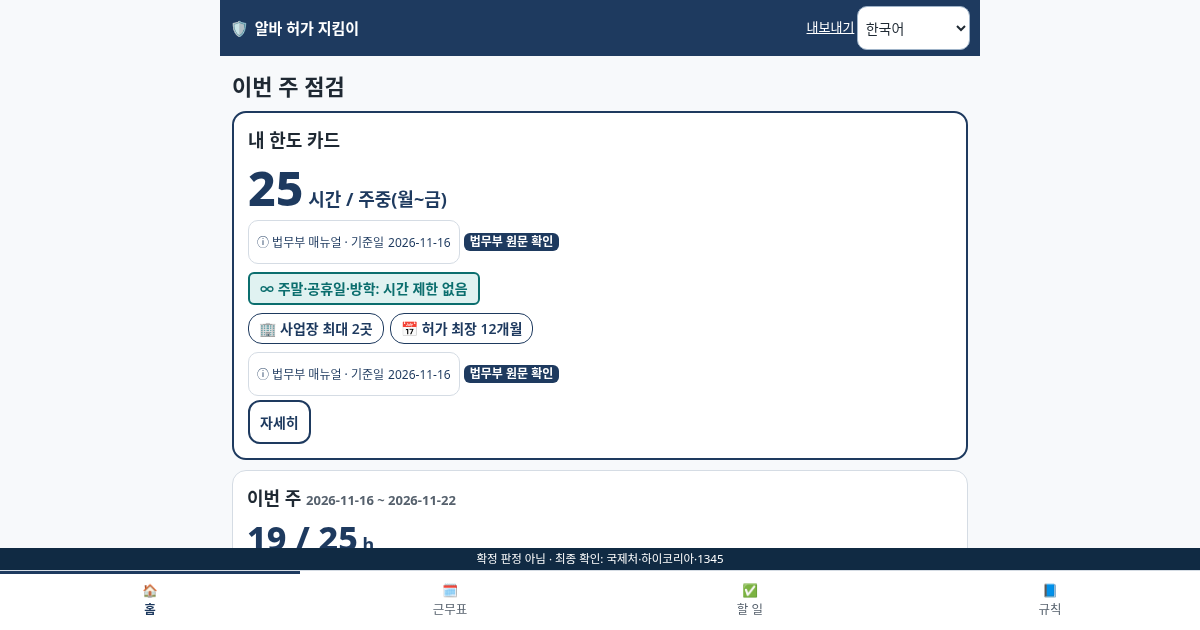
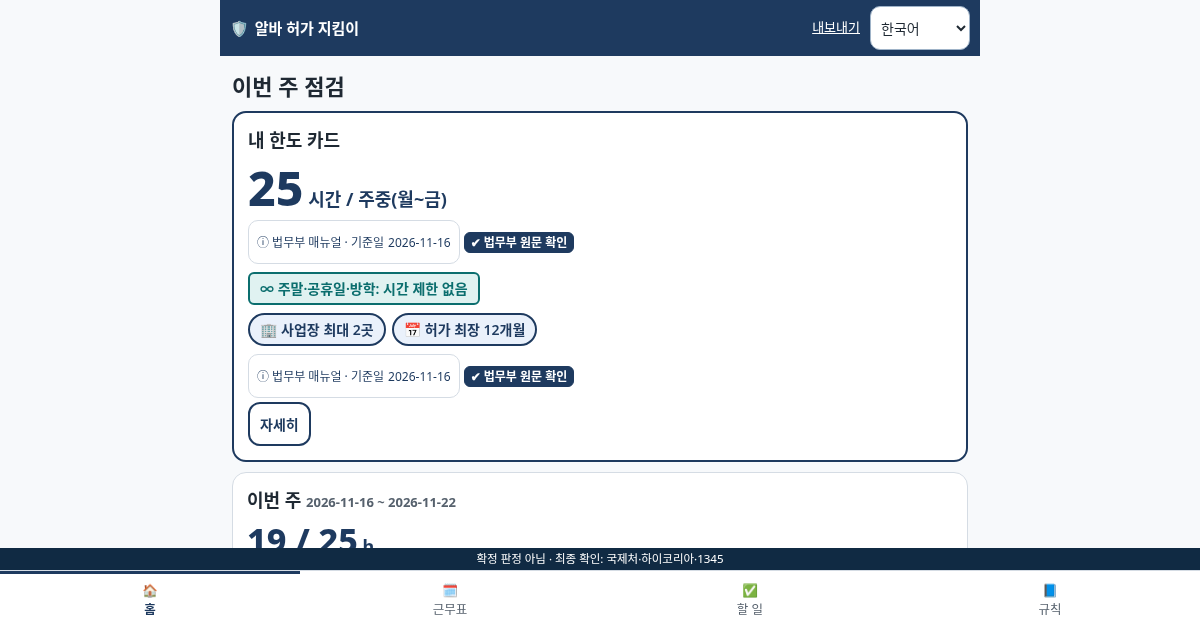
Add 2026-11-16 알바 허가 지킴이

diff --git a/2026-11-16-intl-student-work-permit-guard/app.js b/2026-11-16-intl-student-work-permit-guard/app.js
@@ -31,11 +31,12 @@
     return new Promise(res => { const d = $('#dlg'); $('#dlg-t').textContent = title; $('#dlg-b').innerHTML = bodyHtml; $('#dlg-ok').textContent = okText || t('ok'); const no = $('#dlg-no'); no.textContent = noText || t('cancel'); no.hidden = noText === false;
       d.returnValue = ''; d.onclose = () => res(d.returnValue === 'ok'); d.showModal(); });
   }
-  const STATUS = { verified: 'vb_verified', gov: 'vb_gov', school: 'vb_school', check: 'vb_check', secondary: 'vb_check', press: 'vb_check' };
-  function vb(status) { return `<span class="vb vb-${esc(status)}">${esc(t(STATUS[status] || 'vb_check'))}</span>`; }
+  const STATUS = { verified: ['verified', '✔', 'vb_verified'], gov: ['gov', '🏛', 'vb_gov'], school: ['school', '🏫', 'vb_school'], check: ['check', '?', 'vb_check'], secondary: ['secondary', '📰', 'vb_secondary'], press: ['secondary', '📰', 'vb_secondary'] };
+  function vb(status) { const [c, i, k] = STATUS[status] || STATUS.check; return `<span class="vb vb-${c}"><span aria-hidden="true">${i}</span>${esc(t(k))}</span>`; }
+  function legendSrc() { return `<div class="legend" aria-label="${esc(t('legend_src'))}">${['verified', 'gov', 'school', 'secondary', 'check'].map(vb).join('')}</div>`; }
   function src(key, status) {
     const s = S.D.sources.sources[key]; if (!s) return '';
-    const st = status || (s.kind === 'primary' ? 'verified' : s.kind === 'gov' ? 'gov' : s.kind === 'school' ? 'school' : 'check');
+    const st = status || (s.kind === 'primary' ? 'verified' : s.kind === 'gov' ? 'gov' : s.kind === 'school' ? 'school' : (s.kind === 'secondary' || s.kind === 'press') ? 'secondary' : 'check');
     return `<span class="srcline"><button type="button" class="src" data-src="${esc(key)}">ⓘ ${esc(s.short || s.org)} · ${esc(t('asof'))} <span class="num">${esc(shortAsOf(s.asOf))}</span><span class="sr-only"> — ${esc(t('src_open'))}: ${esc(s.org)}, ${esc(s.asOf)}</span></button>${vb(st)}</span>`;
   }
   function shortAsOf(a) { const m = /\d{4}-\d{2}(-\d{2})?/.exec(a || ''); return m ? m[0] : '확인 필요'; }
@@ -47,7 +48,7 @@
   function sig(signal) { const [c, i, k] = SIGI[signal] || SIGI.unknown; return `<span class="sig ${c}"><span aria-hidden="true">${i}</span>${esc(t(k))}</span>`; }
   const SEVI = { stop: ['s-stop', '⛔'], warn: ['s-warn', '⚠'], check: ['s-chk', '?'], info: ['s-info', 'ℹ'] };
   function legendStatus() {
-    return `<div class="legend" aria-label="${esc(t('legend'))}"><span class="lg s-ok">✓ ${esc(t('lg_ok'))}</span><span class="lg s-warn">⚠ ${esc(t('lg_warn'))}</span><span class="lg s-stop">⛔ ${esc(t('lg_stop'))}</span><span class="lg s-rst">🚫 ${esc(t('lg_rst'))}</span><span class="lg s-chk">? ${esc(t('lg_chk'))}</span><span class="lg s-unl">∞ ${esc(t('lg_unl'))}</span></div>`;
+    return `<div class="legend" aria-label="${esc(t('legend'))}"><span class="lg s-ok">✓ ${esc(t('lg_ok'))}</span><span class="lg s-warn">⚠ ${esc(t('lg_warn'))}</span><span class="lg s-stop">⛔ ${esc(t('lg_stop'))}</span><span class="lg s-rst">🚫 ${esc(t('lg_rst'))}</span><span class="lg s-chk">? ${esc(t('lg_chk'))}</span><span class="lg s-unl">∞ ${esc(t('lg_unl'))}</span><span class="lg s-info">ℹ ${esc(t('lg_info'))}</span></div>`;
   }
   function legendDays() { return `<div class="legend"><span class="lg day">${esc(t('dt_weekday'))}</span><span class="lg day d-weekend">${esc(t('dt_weekend'))}</span><span class="lg day d-holiday">🎌 ${esc(t('dt_holiday'))}</span><span class="lg day d-vacation">🏖 ${esc(t('dt_vacation'))}</span></div>`; }
   function setTitle(k) { document.title = t('title_' + k) + ' — ' + t('app'); }
@@ -73,19 +74,28 @@
     $('#lang').value = S.lang; $('#lang').onchange = e => setLang(e.target.value);
     document.addEventListener('click', e => { const b = e.target.closest('[data-src]'); if (b) { e.preventDefault(); showSrc(b.dataset.src); } });
     window.addEventListener('hashchange', route);
-    chrome(); route(); S.ready = true;
+    chrome(); route(); fitFixed();
+    if (window.ResizeObserver) { const ro = new ResizeObserver(fitFixed); ro.observe($('#final')); ro.observe($('.tabs')); ro.observe($('.top')); }
+    window.addEventListener('resize', fitFixed); S.ready = true;
     if ('serviceWorker' in navigator && location.protocol !== 'file:') navigator.serviceWorker.register('sw.js').catch(() => {});
   }
-  async function setLang(l) { if (!LANGS.includes(l)) return; await loadLang(l); S.lang = l; S.st.lang = l; save(); $('#lang').value = l; chrome(); route(); }
+  async function setLang(l) { if (!LANGS.includes(l)) return; await loadLang(l); S.lang = l; S.st.lang = l; save(); $('#lang').value = l; chrome(); route(); fitFixed(); }
   function chrome() {
     document.documentElement.lang = HTMLLANG[S.lang];
     $$('.tabs .tl').forEach(e => e.textContent = t(e.dataset.k));
     $('#tl-export').textContent = t('tab_export');
-    $('.bname').textContent = t('app'); $('.brand').setAttribute('aria-label', t('app') + ' — ' + t('tab_home'));
+    $('.bname').textContent = t('app_short'); $('.brand').setAttribute('aria-label', t('app') + ' — ' + t('tab_home'));
     $('#foot-disc').textContent = t('foot_disc'); $('#foot-priv').textContent = t('foot_priv');
-    const mt = $('#mt'); mt.hidden = !MT[S.lang]; mt.innerHTML = MT[S.lang] ? `⚙ ${esc(t('mt_banner'))} <span lang="ko">(기계 번역 · 원어민 검수 필요)</span>` : '';
+    const mt = $('#mt'); mt.hidden = !MT[S.lang]; const cmp = !!S.st.mtCompact; mt.classList.toggle('compact', cmp);
+    mt.innerHTML = MT[S.lang] ? `<span class="mtx">⚙ ${cmp ? esc(t('mt_short')) : esc(t('mt_banner')) + ' <span lang="ko">(기계 번역 · 원어민 검수 필요)</span>'}</span><button type="button" class="mtb" id="mtb" aria-expanded="${!cmp}">${esc(t(cmp ? 'mt_more' : 'mt_less'))}</button>` : '';
+    const mb = $('#mtb'); if (mb) mb.onclick = () => { S.st.mtCompact = !S.st.mtCompact; save(); chrome(); fitFixed(); };
     $('#final-tr').textContent = S.lang === 'ko' ? '' : t('final'); $('#final-tr').hidden = S.lang === 'ko';
     $('.tabs').setAttribute('aria-label', t('nav_main'));
+  }
+  function fitFixed() {
+    const f = $('#final'), top = $('.top'); if (!f) return;
+    const b = Math.max(0, Math.ceil(innerHeight - f.getBoundingClientRect().top)); const h = top ? Math.ceil(top.getBoundingClientRect().height) : 0;
+    document.documentElement.style.setProperty('--fixed-b', b + 'px'); document.documentElement.style.setProperty('--fixed-t', (h + 8) + 'px');
   }
   function applySchool(id) {
     const sc = S.D.schools.schools.find(s => s.id === id); if (!sc) return;
@@ -223,7 +233,7 @@
   }
   function limitView() {
     const L = limit();
-    page('limit', `<h1>${esc(t('my_limit'))}</h1><section class="card limit" id="limitcard">${limitBlock(L)}</section>
+    page('limit', `<h1>${esc(t('my_limit'))}</h1><section class="card limit" id="limitcard">${limitBlock(L)}</section><details class="card"><summary class="btn ghost sm">${esc(t('legend_src'))}</summary>${legendSrc()}${legendStatus()}</details>
       <div class="stack"><a class="btn block" href="#/work" id="to-work">${esc(t('to_work'))}</a><a class="btn ghost block" href="#/q/1">${esc(t('redo'))}</a></div>
       <section class="card"><h2>${esc(t('vac_h'))}</h2><p>${esc(L.unlimited ? t('vac_unl') : t('vac_lim'))}</p></section>`);
   }
@@ -232,9 +242,12 @@
   function weeksNow(n) { const L = limit(); return { L, weeks: E.aggregate(S.st, L, S.D.holidays, E.weekKey(today()), n || 5) }; }
   function meter(w) { if (w.capMins == null) return ''; const pct = Math.min(100, w.capMins ? w.countedMins / w.capMins * 100 : 0); return `<div class="meter" role="img" aria-label="${esc(t('meter_aria', { used: H(w.countedMins), cap: H(w.capMins) }))}"><i class="${w.status}" style="width:${pct}%"></i></div>`; }
   function stChip(s) { const m = { ok: ['s-ok', '✓', 'wk_ok'], warn: ['s-warn', '⚠', 'wk_near'], stop: ['s-stop', '⛔', 'wk_over'] }[s]; return `<span class="chip ${m[0]}">${m[1]} ${esc(t(m[2]))}</span>`; }
+  function wParams(w) { const p = Object.assign({}, w.params); if (p.counted != null) { p.counted = H(p.counted); p.cap = H(p.cap); } if (p.mins != null) { p.mins = H(p.mins); p.cap = H(p.cap); } return p; }
+  function overList(w) { return (w.params.weeks || []).map(x => `${x.week.slice(5)}~ ${H(x.counted)}/${H(x.cap)}h`); }
   function warnHtml(w) {
-    const p = Object.assign({}, w.params); if (p.counted != null) { p.counted = H(p.counted); p.cap = H(p.cap); } if (p.mins != null) { p.mins = H(p.mins); p.cap = H(p.cap); }
-    const [c, i] = SEVI[w.sev]; return `<li class="${c}"><b><span aria-hidden="true">${i}</span> ${dual('w_' + w.id, p)}</b><span class="small">${esc(t('wd_' + w.id, p))}</span>${src(w.src, w.status)}</li>`;
+    const p = wParams(w);
+    const wk = w.id === 'over' ? `<span class="small">${esc(t('over_weeks'))}</span><span class="wkl">${overList(w).map(x => `<span class="kw num">${esc(x)}</span>`).join('')}</span>` : '';
+    const [c, i] = SEVI[w.sev]; return `<li class="${c}" data-w="${esc(w.id)}"><b><span aria-hidden="true">${i}</span> ${dual('w_' + w.id, p)}</b>${wk}<span class="small">${esc(t('wd_' + w.id, p))}</span>${src(w.src, w.status)}</li>`;
   }
   function dashView() {
     const { L, weeks } = weeksNow(5); const W = E.warnings(S.st, L, S.D.rules, S.D.industries, weeks, today()); const w0 = weeks[0];
@@ -250,7 +263,7 @@
         <div class="days" aria-label="${esc(t('week_days'))}">${w0.days.map(d => `<div class="day d-${d.type}"><b>${esc(dowName(E.dowIdx(d.date)))}</b><span class="num">${d.date.slice(5)}</span><br><span class="num">${d.mins ? H(d.mins) + 'h' : '–'}</span>${d.holiday ? '<br>🎌' : d.type === 'vacation' ? '<br>🏖' : ''}</div>`).join('')}</div>${legendDays()}</section>
       <section class="card"><h2>${esc(t('next_weeks'))}</h2>${weeks.map(w => `<div class="wk"><span class="num">${w.week.slice(5)}~</span>${w.capMins == null ? '<span></span>' : meter(w)}<span class="num">${H(w.countedMins)}${w.capMins != null ? '/' + H(w.capMins) : ''}h ${{ ok: '✓', warn: '⚠', stop: '⛔' }[w.status]}</span></div>`).join('')}${legendStatus()}</section>
       ${sug.length ? `<section class="card" id="sug"><h2>${esc(t('sug_h'))}</h2><ul class="wlist">${sug.map(s => `<li class="s-info">${esc(s.kind === 'move' ? t(s.fixes ? 'sug_move' : 'sug_move_part', { week: s.week.slice(5), dow: dowName(s.dow), from: hmS(s.from), to: hmS(s.to), toDow: dowName(s.toDow), toType: t('dt_' + s.toType), h: H(s.mins) }) : (s.dow != null ? t('sug_cut_at', { week: s.week.slice(5), h: H(s.mins), dow: dowName(s.dow), from: hmS(s.from), to: hmS(s.to) }) : t('sug_cut', { week: s.week.slice(5), h: H(s.mins) })))}</li>`).join('')}</ul></section>` : ''}`}
-      <section class="card" id="warns"><h2>${esc(t('warn_h'))} <span class="num">(${W.length})</span></h2>${W.length ? `<ul class="wlist">${W.map(warnHtml).join('')}</ul>` : `<p class="chip s-ok">✓ ${esc(t('no_warn'))}</p>`}${legendStatus()}</section>`);
+      <section class="card" id="warns"><h2>${esc(t('warn_h'))} <span class="num">(${W.length})</span></h2>${W.length ? `<ul class="wlist">${W.map(warnHtml).join('')}</ul>` : `<p class="chip s-ok">✓ ${esc(t('no_warn'))}</p>`}${legendStatus()}<p class="small">${esc(t('legend_src'))}</p>${legendSrc()}</section>`);
     const sb = $('#sample'); if (sb) sb.onclick = fillSample;
   }
   const hmS = m => String(Math.floor(m / 60)).padStart(2, '0') + ':' + String(m % 60).padStart(2, '0');
@@ -309,7 +322,7 @@
     $('#sadd').onclick = () => { const wp = $('#swp').value, a = $('#sst').value, b = $('#sen').value; if (!a || !b || a === b) { toast(t('shift_err')); return; } const sh = { wpId: wp, start: a, end: b }; if ($('#sdow').value === 'date') { if (!E.isYmd($('#sdate').value)) { toast(t('shift_err')); return; } sh.date = $('#sdate').value; } else sh.dow = +$('#sdow').value; st.shifts.push(sh); save(); toast(t('saved')); workView(); };
     $('#parse').onclick = () => { const r = E.parseScheduleText($('#paste').value); const wp = $('#swp').value; if (!r.ok.length) { $('#perr').textContent = t('paste_err'); $('#perr').hidden = false; return; } r.ok.forEach(x => st.shifts.push(Object.assign({ wpId: wp }, x))); save(); toast(t('paste_ok', { n: r.ok.length, bad: r.bad.length })); workView(); };
   }
-  function sigDetail(r) { return `${sig(r.signal)}${r.matched.length ? ` <span class="small">${esc(t('kw_hit'))}: ${esc(r.matched.slice(0, 4).join(', '))}</span>` : ''}<span class="small" style="display:block">${dual('sigd_' + (r.top === 'manufacturing' ? (r.levelOk ? 'mfg_ok' : 'mfg_low') : r.signal), { from: S.D.rules.oneStrike.from })}</span>`; }
+  function sigDetail(r) { return `${sig(r.signal)}${r.matched.length ? ` <span class="small kwline">${esc(t('kw_hit'))}: <span class="kws">${r.matched.slice(0, 4).map(k => `<span class="kw" lang="ko">${esc(k)}</span>`).join('')}</span></span>` : ''}<span class="small" style="display:block">${dual('sigd_' + (r.top === 'manufacturing' ? (r.levelOk ? 'mfg_ok' : 'mfg_low') : r.signal), { from: S.D.rules.oneStrike.from })}</span>`; }
   function wpCard(w, lv) {
     const r = E.classifyIndustry(w.industry, S.D.industries, lv.unknown ? null : lv.level);
     return `<div class="wpcard"><div class="row"><b>${esc(w.name)}</b><button type="button" class="btn sm ghost" data-delwp="${esc(w.id)}" aria-label="${esc(t('del'))} ${esc(w.name)}">✕</button></div>
@@ -375,7 +388,7 @@
       <section class="card" id="wage"><h2>${esc(t('wage_h'))}</h2><div class="two"><div><label class="f" for="hw">${esc(t('hourly'))}</label><input type="number" id="hw" inputmode="numeric" value="${esc(W.hourly ?? '')}"></div><div><label class="f" for="wh">${esc(t('weekly_h'))}</label><input type="number" id="wh" inputmode="decimal" value="${esc(W.weekly ?? '')}"></div></div>
         <label class="f" for="wy">${esc(t('year'))}</label><select id="wy">${[2026, 2027].map(y => `<option ${W.year == y ? 'selected' : ''}>${y}</option>`).join('')}</select>
         <div id="wageout">${wageOut(wr, W)}</div>${src('moel_2027')}${src('labor_act', 'check')}</section>
-      <section class="card"><h2>${esc(t('src_h'))}</h2><ul class="wlist">${src2.map(([k, s]) => `<li class="s-info"><b>${esc(s.org)}</b><span class="small">${esc(s.title)} · ${esc(t('asof'))} ${esc(s.asOf)}</span>${src(k)}</li>`).join('')}</ul></section>
+      <section class="card"><h2>${esc(t('src_h'))}</h2><p class="small">${esc(t('legend_src'))}</p>${legendSrc()}<ul class="wlist">${src2.map(([k, s]) => `<li class="s-info"><b>${esc(s.org)}</b><span class="small">${esc(s.title)} · ${esc(t('asof'))} ${esc(s.asOf)}</span>${src(k)}</li>`).join('')}</ul></section>
       <section class="card"><h2>${esc(t('tr_h'))}</h2><p>${esc(t('tr_p'))}</p><ul><li>한국어 — ${esc(t('tr_orig'))}</li><li>English — ${esc(t('tr_human'))}</li><li>Tiếng Việt · 简体中文 · O‘zbekcha — ${esc(t('tr_mt'))}</li></ul></section>`);
     $('#indq').oninput = e => { const lv = E.langLevel((S.st.profile || {}).lang, S.D.rules); $('#indr').innerHTML = e.target.value ? sigDetail(E.classifyIndustry(e.target.value, S.D.industries, lv.unknown ? null : lv.level)) : ''; };
     const upd = () => { const W2 = S.st.wage; W2.hourly = parseFloat($('#hw').value) || null; W2.weekly = parseFloat($('#wh').value) || null; W2.year = +$('#wy').value; save(); $('#wageout').innerHTML = wageOut(E.wage(W2.hourly, W2.weekly, W2.year, S.D.rules), W2); };
@@ -431,7 +444,7 @@
       <tr><th scope="row">앱 계산 한도</th><td>${esc(cap)} · 사업장 최대 ${L.maxPlaces}곳${L.unknown.length ? ' · 모름 항목은 낮은 값으로 계산' : ''}</td></tr>
       <tr><th scope="row">사업장</th><td>${S.st.workplaces.map(w => esc(w.name + (w.permitted ? ' (허가 ' + (w.permitFrom || '?') + '~' + (w.permitTo || '?') + ')' : ' (허가 전)'))).join('<br>') || '—'}</td></tr></tbody></table>
       <h3>향후 5주 근무(한도 계산 시간)</h3><table class="tbl"><thead><tr><th scope="col">주(월~일)</th><th scope="col">계산 시간</th><th scope="col">주말·공휴일·방학</th><th scope="col">상태</th></tr></thead><tbody>${weeks.map(w => `<tr><td class="num">${w.week}</td><td class="num">${H(w.countedMins)}${w.capMins != null ? ' / ' + H(w.capMins) : ''}h</td><td class="num">${H(w.otherMins)}h</td><td>${{ ok: '✓ 한도 안', warn: '⚠ 한도 근접', stop: '⛔ 초과' }[w.status]}</td></tr>`).join('')}</tbody></table>
-      <h3>앱이 찾은 확인 사항</h3><ul>${W.map(w => `<li>${esc(tk('w_' + w.id, Object.assign({}, w.params, w.params.counted != null ? { counted: H(w.params.counted), cap: H(w.params.cap) } : {}, w.params.mins != null ? { mins: H(w.params.mins), cap: H(w.params.cap) } : {})))}</li>`).join('') || '<li>없음</li>'}</ul>
+      <h3>앱이 찾은 확인 사항</h3><ul>${W.map(w => `<li>${esc(tk('w_' + w.id, wParams(w)))}${w.id === 'over' ? ' — ' + esc(overList(w).join(', ')) : ''}</li>`).join('') || '<li>없음</li>'}</ul>
       <h3>여쭤볼 질문</h3><ol><li>만료된 TOPIK 성적도 우리 학교에서 인정되나요?</li><li>우리 학교가 인증대학인가요(주중 +5시간 우대 해당 여부)?</li><li>고용주가 바뀌면 새 허가와 15일 이내 변경 신고 중 무엇을 해야 하나요?</li></ol>
       <p class="small">확정 판정 아님 · 최종 확인: 국제처·하이코리아·1345 · 외국인등록번호·여권번호는 적지 않았어요.</p></div>`;
   }

diff --git a/2026-11-16-intl-student-work-permit-guard/styles.css b/2026-11-16-intl-student-work-permit-guard/styles.css
@@ -5,16 +5,20 @@ font-family:system-ui,-apple-system,"Segoe UI","Apple SD Gothic Neo","Malgun Got
 *{box-sizing:border-box}
 html{-webkit-text-size-adjust:100%}
 body{margin:0;background:var(--bg);color:var(--ink);font-size:16px;line-height:1.5}
-.shell{max-width:760px;margin:0 auto;padding-bottom:132px}
+.shell{max-width:760px;margin:0 auto;padding-bottom:calc(var(--fixed-b,140px) + 16px)}
+html{scroll-padding-top:var(--fixed-t,64px);scroll-padding-bottom:calc(var(--fixed-b,140px) + 8px)}
+html[lang=ko] body,[lang=ko]{word-break:keep-all;overflow-wrap:break-word}
 a{color:var(--navy)}
 .skip{position:absolute;left:-999px;top:0}.skip:focus{left:8px;top:8px;z-index:99;background:#fff;padding:8px}
 .sr-only{position:absolute!important;width:1px;height:1px;overflow:hidden;clip:rect(0 0 0 0);white-space:nowrap}
-.top{position:sticky;top:0;z-index:20;display:flex;align-items:center;justify-content:space-between;gap:6px;padding:6px 10px;background:var(--navy);color:#fff}
-.brand{display:flex;align-items:center;gap:6px;color:#fff;text-decoration:none;font-weight:700;min-height:44px;min-width:44px;white-space:nowrap;font-size:15px}
-.topr{display:flex;align-items:center;gap:4px}
+.top{position:sticky;top:0;z-index:20;display:flex;align-items:center;justify-content:space-between;gap:8px;padding:6px 10px;background:var(--navy);color:#fff}
+.brand{display:flex;align-items:center;gap:6px;color:#fff;text-decoration:none;font-weight:700;min-height:44px;min-width:0;flex:1 1 auto;white-space:normal;font-size:15px;line-height:1.2}
+.brand .logo{flex:none}.bname{min-width:0;overflow-wrap:break-word;word-break:keep-all}
+.topr{display:flex;align-items:center;gap:4px;flex:none}
 .toplink{color:#fff;font-size:13px;min-height:44px;min-width:44px;display:inline-flex;align-items:center;justify-content:center;padding:0 6px;white-space:nowrap}
-.langsel{min-height:44px;min-width:44px;max-width:118px;border-radius:10px;border:1px solid #9FB3C8;background:#fff;color:var(--ink);font-size:14px;padding:0 4px}
-.mt{margin:0;padding:6px 12px;background:#FFF8E1;border-bottom:1px solid #E8D9A8;font-size:13px}
+.langsel{min-height:44px;min-width:44px;width:auto;border-radius:10px;border:1px solid #9FB3C8;background:#fff;color:var(--ink);font-size:14px;padding:0 4px 0 6px}
+.mt{margin:0;padding:4px 8px 4px 12px;background:#FFF8E1;border-bottom:1px solid #E8D9A8;font-size:13px;display:flex;align-items:center;gap:8px}.mt[hidden]{display:none}.mt .mtx{flex:1 1 auto;min-width:0}
+.mt .mtb{flex:none;min-height:44px;min-width:44px;padding:0 10px;border:1px solid #B08A2E;border-radius:10px;background:#fff;color:#5C4300;font-size:13px;font-weight:600;font-family:inherit;cursor:pointer;white-space:nowrap}
 main{display:block;padding:12px;min-height:calc(100vh - 40px)}
 main:focus{outline:none}
 h1{font-size:22px;margin:4px 0 8px;line-height:1.3}
@@ -58,23 +62,23 @@ input,select,textarea{min-width:0}
 .big small{font-size:18px;font-weight:700}
 .limit{border:2px solid var(--navy)}
 .chips{display:flex;flex-wrap:wrap;gap:6px;margin:8px 0}
-.chip{display:inline-flex;align-items:center;gap:4px;padding:4px 10px;border-radius:14px;font-size:14px;font-weight:600;white-space:normal;overflow-wrap:anywhere;border:2px solid var(--line);background:#fff;max-width:100%}
+.chip{display:inline-flex;align-items:center;gap:4px;padding:4px 10px;border-radius:14px;font-size:14px;font-weight:600;white-space:normal;overflow-wrap:break-word;border:2px solid var(--line);background:#fff;max-width:100%}
 /* 상태: 색 + 테두리 + 아이콘 + 글자 (같은 색을 다른 뜻에 쓰지 않음) */
-.s-ok{color:var(--ok);background:var(--okbg);border:2px solid var(--ok)}
-.s-warn{color:var(--warn);background:var(--warnbg);border:2px dashed var(--warn)}
-.s-stop{color:var(--stop);background:var(--stopbg);border:3px double var(--stop)}
-.s-rst{color:var(--rst);background:var(--rstbg);border:2px solid var(--rst);border-left-width:6px}
-.s-chk{color:var(--chk);background:#fff;border:2px dotted var(--chk)}
-.s-unl{color:var(--unl);background:var(--unlbg);border:2px solid var(--unl);border-radius:6px}
-.s-info{color:var(--navy);background:#fff;border:1px solid var(--navy)}
+.s-ok{color:#1E7A46;background:#E6F4EC;border:2px solid #1E7A46}
+.s-warn{color:#8A5300;background:#FFF3DC;border:2px dashed #8A5300}
+.s-stop{color:#B3261E;background:#FDECEA;border:3px double #B3261E}
+.s-rst{color:#6B2E91;background:#F3E8FA;border:2px solid #6B2E91;border-left-width:6px}
+.s-chk{color:#3C556E;background:#fff;border:2px dotted #3C556E}
+.s-unl{color:#0B6E6E;background:#E0F2F1;border:2px solid #0B6E6E;border-radius:6px}
+.s-info{color:#1E3A5F;background:#EAF1FB;border:2px solid #1E3A5F;border-radius:999px}
 .srcline{display:flex;flex-wrap:wrap;align-items:center;gap:4px;font-size:12.5px;color:var(--sub);margin:4px 0}
 .src{display:inline-flex;align-items:center;gap:4px;min-height:44px;padding:0 8px;border:1px solid var(--line);border-radius:10px;background:#fff;color:var(--navy);font-size:12px;white-space:nowrap;cursor:pointer;font-family:inherit;text-align:left}
-.vb{display:inline-block;padding:0 6px;border-radius:6px;font-size:12px;font-weight:700;white-space:nowrap}
-.vb-verified{color:#fff;background:var(--navy)}
-.vb-gov{color:var(--navy);background:#fff;border:1px solid var(--navy)}
-.vb-school{color:var(--ink);background:#fff;border:1px dashed var(--ink)}
-.vb-check{color:var(--chk);background:#fff;border:1px dotted var(--chk)}
-.vb-secondary{color:var(--chk);background:#fff;border:1px dotted var(--chk)}
+.vb{display:inline-flex;align-items:center;gap:3px;padding:0 6px;border-radius:6px;font-size:12px;font-weight:700;white-space:nowrap;line-height:1.6}
+.vb-verified{color:#fff;background:#1E3A5F;border:1px solid #1E3A5F}
+.vb-gov{color:#0B4F8A;background:#E3F0FB;border:1px solid #0B4F8A;border-left-width:4px}
+.vb-school{color:#3D4A9E;background:#EEF0FB;border:1px dashed #3D4A9E}
+.vb-secondary{color:#4B5563;background:#F3F4F6;border:3px double #6B7280}
+.vb-check{color:#3C556E;background:#fff;border:2px dotted #3C556E}
 .ko{display:block;font-size:13px;color:var(--sub);margin-top:2px}
 .meter{height:22px;border-radius:8px;background:#E3E8EE;overflow:hidden;position:relative;margin:6px 0}
 .meter i{display:block;height:100%}
@@ -108,7 +112,7 @@ input,select,textarea{min-width:0}
 .foot-links a{min-height:44px;min-width:44px;display:inline-flex;align-items:center}
 .disc{font-weight:600}
 .final{position:fixed;left:0;right:0;bottom:60px;z-index:19;background:#102A43;color:#fff;font-size:11.5px;text-align:center;padding:3px 6px;line-height:1.35}
-.final span{display:block;white-space:nowrap;overflow:hidden;text-overflow:ellipsis}
+.final span{display:block}
 .final .final-tr{font-size:11px;color:#C9D6E3}
 .tabs{position:fixed;left:0;right:0;bottom:0;z-index:20;display:grid;grid-template-columns:repeat(4,1fr);background:#fff;border-top:1px solid var(--line);height:60px;padding-bottom:env(safe-area-inset-bottom)}
 .tabs a{display:flex;flex-direction:column;align-items:center;justify-content:center;text-decoration:none;color:var(--sub);font-size:12.5px;min-height:44px;white-space:nowrap}
@@ -136,3 +140,8 @@ dialog::backdrop{background:rgba(16,42,67,.5)}
 }
 @media (max-width:460px){.two:has(input[type=date]),.two:has(input[type=number]){grid-template-columns:minmax(0,1fr)}}
 @media (max-width:460px){.three{grid-template-columns:minmax(0,1fr) minmax(0,1fr) 48px}.three>div:first-child{grid-column:1/-1}}
+
+.kws{display:inline-flex;flex-wrap:wrap;gap:4px;align-items:center;vertical-align:middle}
+.kw{display:inline-block;white-space:nowrap;padding:0 6px;border:1px solid #AEB8C4;border-radius:6px;background:#F4F6F8;color:var(--ink);font-size:13px;line-height:1.6}
+.wkl{display:flex;flex-wrap:wrap;gap:4px;margin:4px 0}
+.wlist li.s-info{border-radius:12px}

diff --git a/2026-11-16-intl-student-work-permit-guard/engine.js b/2026-11-16-intl-student-work-permit-guard/engine.js
@@ -156,7 +156,8 @@
   function warnings(state, limit, rules, industries, weeks, today) {
     const W = []; const p = state.profile || {}; const wps = state.workplaces || [];
     const add = (id, sev, params, src, status) => W.push({ id, sev, params: params || {}, src: src || 'moj_manual', status: status || 'verified' });
-    for (const w of weeks) if (w.over) add('over', 'stop', { week: w.week, counted: w.countedMins, cap: w.capMins, unlimited: limit.unlimited }, limit.src, limit.status);
+    const overs = weeks.filter(w => w.over); // 반복 근무로 여러 주가 넘으면 카드 1장에 주 목록으로 묶음
+    if (overs.length) add('over', 'stop', { n: overs.length, weeks: overs.map(w => ({ week: w.week, counted: w.countedMins, cap: w.capMins })), week: overs[0].week, counted: overs[0].countedMins, cap: overs[0].capMins, unlimited: limit.unlimited }, limit.src, limit.status);
     if (wps.length > limit.maxPlaces) add('places', 'stop', { n: wps.length, max: limit.maxPlaces, visa: limit.visa }, 'moj_manual');
     if (p.visa === 'D-4' && !limit.eligibleNow) {
       const has = weeks.some(w => w.segs.some(s => !limit.eligibleFrom || s.date < limit.eligibleFrom));

diff --git a/2026-11-16-intl-student-work-permit-guard/sw.js b/2026-11-16-intl-student-work-permit-guard/sw.js
@@ -1,4 +1,4 @@
-const CACHE = 'intl-student-work-permit-guard-v1';
+const CACHE = 'intl-student-work-permit-guard-v2';
 const CORE = ['./', 'index.html', 'styles.css', 'engine.js', 'app.js', 'data/rules.json', 'data/industries.json', 'data/holidays.json', 'data/schools.json', 'data/sources.json', 'i18n/ko.json', 'i18n/en.json', 'i18n/vi.json', 'i18n/zh.json', 'i18n/uz.json', 'manifest.webmanifest', 'icon.svg', 'icon-192.png', 'icon-512.png', 'privacy.html', 'd2-part-time-hours/', 'd4-language-student-part-time/', 'restricted-jobs-one-strike/'];
 self.addEventListener('install', e => { e.waitUntil(caches.open(CACHE).then(c => c.addAll(CORE)).then(() => self.skipWaiting())); });
 self.addEventListener('activate', e => { e.waitUntil(caches.keys().then(ks => Promise.all(ks.filter(k => k !== CACHE && k.startsWith('intl-student-work-permit-guard-')).map(k => caches.delete(k)))).then(() => self.clients.claim())); });

diff --git a/2026-11-16-intl-student-work-permit-guard/index.html b/2026-11-16-intl-student-work-permit-guard/index.html
@@ -33,7 +33,7 @@
     <select id="lang" class="langsel"><option value="ko">한국어</option><option value="en">English</option><option value="vi">Tiếng Việt</option><option value="zh">简体中文</option><option value="uz">O‘zbekcha</option></select>
   </div>
 </header>
-<p class="mt" id="mt" hidden></p>
+<div class="mt" id="mt" role="note" hidden></div>
 <main id="view" tabindex="-1"><h1 class="sr-only">불러오는 중</h1><p class="loading">불러오는 중…</p></main>
 <footer class="foot">
   <p class="disc" id="foot-disc">법률 자문이 아니고 확정 판정도 아니에요. 규칙은 바뀔 수 있어요.</p>
